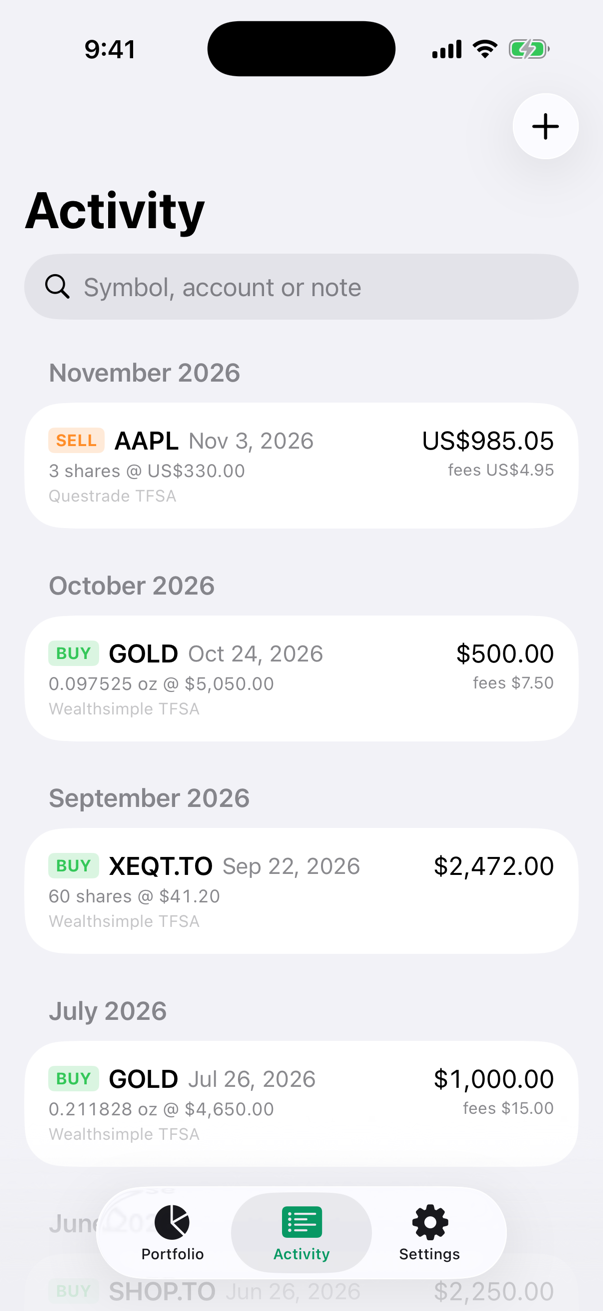
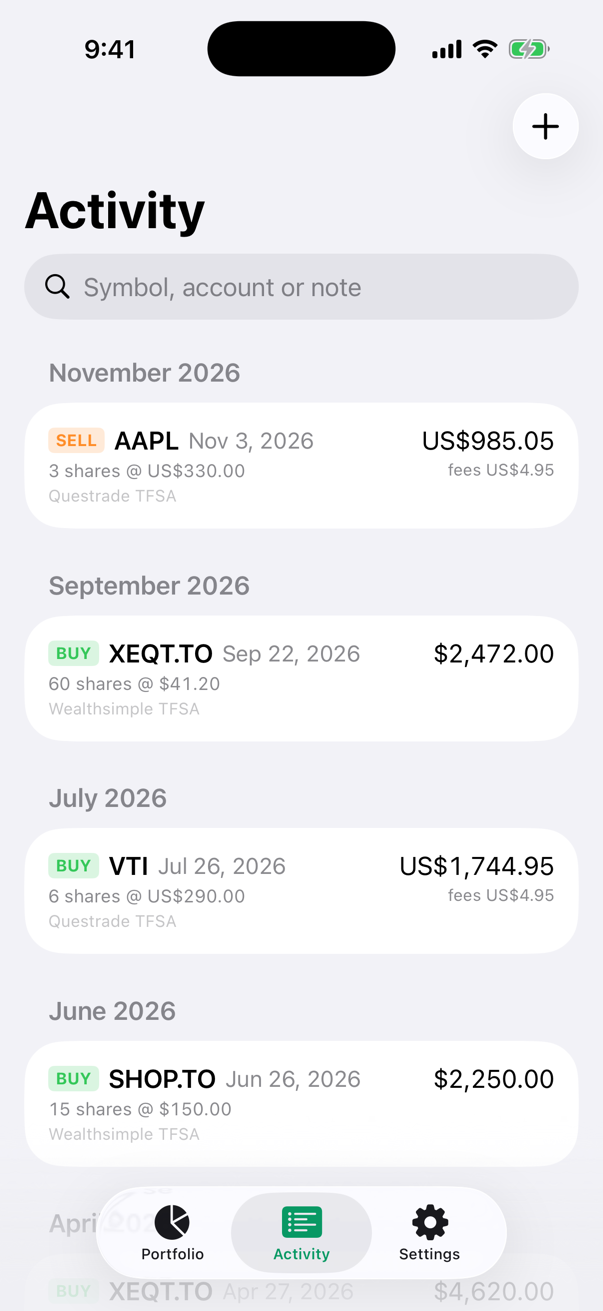
Bug Fixes

diff --git a/Portfolio/Portfolio/DemoData.swift b/Portfolio/Portfolio/DemoData.swift
@@ -46,11 +46,9 @@ enum DemoData {
         add(aapl, Trade(side: .sell, account: qtTFSA, date: daysAgo(20), quantity: 3, price: 330.00,
                         fees: 4.95, cadAmount: 1_410.00))
 
-        let gold = asset(Asset.goldSymbol, "Physical Gold", .gold, .cad)
-        add(gold, Trade(side: .buy, account: wsTFSA, date: daysAgo(120), quantity: 0.211828, price: 4_650.00,
-                        fees: 15.00, totalAmount: 1_000.00, amountAfterFees: 985.00))
-        add(gold, Trade(side: .buy, account: wsTFSA, date: daysAgo(30), quantity: 0.097525, price: 5_050.00,
-                        fees: 7.50, totalAmount: 500.00, amountAfterFees: 492.50))
+        let vti = asset("VTI", "Vanguard Total Stock Market ETF", .etf, .usd)
+        add(vti, Trade(side: .buy, account: qtTFSA, date: daysAgo(120), quantity: 6, price: 290.00,
+                       fees: 4.95, cadAmount: 2_405.00))
 
         try? context.save()
     }

diff --git a/README.md b/README.md
@@ -1,69 +1,56 @@
 # Investment Tracker
 
-A private iPhone app for tracking investments from **Wealthsimple** and **Questrade** in one place: stocks, ETFs, index funds and physical gold. You enter your own trades; the app pulls live prices and shows your book cost, average price, today's return and total return. Once installed, it appears on your home screen as **Portfolio**.
+A private iPhone app that combines all your investments into one place to track. Bring in holdings from **Wealthsimple**, **Questrade** or any other broker. You enter your own trades; the app pulls live prices and shows your book cost, average price, today's return and total return. Once installed, it appears on your home screen as **Portfolio**.
 
 No account, no server, no bank logins. **Your trades are stored only on your iPhone.**
 
 <p align="center">
-  <img src="docs/screenshots/portfolio.png" width="260" alt="Portfolio screen with total value, today's return, total return and book cost, and a list of holdings">
+  <img src="docs/screenshots/portfolio.png" width="260" alt="Portfolio screen with total value, today's return, total return and book cost, and a list of holdings (sample data)">
   &nbsp;&nbsp;
-  <img src="docs/screenshots/portfolio-etfs-gold.png" width="260" alt="Holdings list showing ETFs and physical gold, each with its price and the time of that price">
+  <img src="docs/screenshots/portfolio-etfs.png" width="260" alt="Holdings list showing ETFs, each with its price and the time of that price (sample data)">
   &nbsp;&nbsp;
-  <img src="docs/screenshots/portfolio-dark.png" width="260" alt="Portfolio screen in dark mode">
+  <img src="docs/screenshots/portfolio-dark.png" width="260" alt="Portfolio screen in dark mode (sample data)">
 </p>
 
-> All screenshots use made-up demo data.
+> [!NOTE]
+> **These aren't real investments.** Every screenshot uses made-up sample data from the app's built-in demo mode, not anyone's actual portfolio. Real data never leaves the phone it's entered on.
 
 ## Why
-Wealthsimple and Questrade each show only their own accounts, and Google Finance can't add Wealthsimple's physical gold. This app puts everything in one list, in CAD, without handing your data to anyone.
+Each broker only shows its own accounts, and tools like Google Finance can't hold everything. This app puts every investment in one list, in CAD, without handing your data to anyone.
 
 ## Features
 | | |
 |---|---|
-| **One portfolio** | Every account from both brokers in one list, or filter to a broker or a single account (TFSA, RRSP, FHSA, non-registered) |
+| **One portfolio** | Every account from every broker in one list, or filter to a broker or a single account (TFSA, RRSP, FHSA, non-registered) |
 | **The numbers that matter** | Book cost, average price, market value, today's return and total return, per holding and for the whole portfolio |
-| **Live prices** | Canadian (`.TO`) and US stocks and ETFs, gold, and USD → CAD, each shown with the time of the price |
-| **Physical gold** | Enter amount invested, price per oz, quantity and amount after fees; see totals, fees and your averages |
+| **Live prices** | Canadian (`.TO`) and US stocks and ETFs, plus USD → CAD, each shown with the time of the price |
 | **USD holdings** | Shown in USD, converted to CAD in totals. Optionally record the CAD you actually paid so book cost matches your broker |
 | **Sells** | Average-cost (ACB) method per account, the way Canadian brokers report it, with realized gains |
-| **Your own price** | Override any price, such as Wealthsimple's gold price or a mutual fund's daily price |
+| **Your own price** | Override any price, such as a mutual fund's daily price or a price your broker shows |
 | **Private** | Face ID lock, data stored only on the device, JSON backup and restore |
 
 ## Screens
+*Sample data for illustration only.*
 
-| Holding | Physical gold | Adding gold |
-|---|---|---|
-| <img src="docs/screenshots/holding.png" width="240" alt="Apple holding with quantity, average price, book cost, market value, returns and realized gains"> | <img src="docs/screenshots/gold.png" width="240" alt="Gold page with total invested, amount after fees, fees paid, averages per ounce and the live gold price in CAD and USD"> | <img src="docs/screenshots/add-gold.png" width="240" alt="New gold purchase form with amount invested, price per ounce, quantity, amount after fees, and the fee and cost per ounce worked out"> |
+| Holding | Filter by account |
+|---|---|
+| <img src="docs/screenshots/holding.png" width="240" alt="Apple holding with quantity, average price, book cost, market value, returns and realized gains (sample data)"> | <img src="docs/screenshots/filter.png" width="240" alt="Account filter menu listing all accounts, each broker, and each individual account (sample data)"> |
 
 | Activity | Settings |
 |---|---|
-| <img src="docs/screenshots/activity.png" width="240" alt="Activity list of buys and sells grouped by month"> | <img src="docs/screenshots/settings.png" width="240" alt="Settings with Face ID lock, backup export and restore, and current prices"> |
+| <img src="docs/screenshots/activity.png" width="240" alt="Activity list of buys and sells grouped by month (sample data)"> | <img src="docs/screenshots/settings.png" width="240" alt="Settings with Face ID lock, backup export and restore, and current prices (sample data)"> |
 
 ## How the numbers work
 | Number | How it's worked out |
 |---|---|
 | **Book cost** | What you paid, including fees. When you sell, it goes down by the sold shares' share of the average cost |
-| **Average price** | Book cost ÷ shares (or ounces) you still hold |
+| **Average price** | Book cost ÷ shares you still hold |
 | **Market value** | Shares × latest price |
 | **Today's return** | Shares held since yesterday × (price − yesterday's close), plus anything bought today × (price − your purchase price) |
 | **Total return** | Market value − book cost (on what you still hold) |
 | **Realized** | Money from sales − the average cost of the shares you sold |
 
 Each account keeps its own average cost, like your broker does. USD holdings show in USD on their own page and convert to CAD in the totals.
-
-### Gold
-Gold is valued per **troy ounce in CAD**: the COMEX gold price in USD × the live USD → CAD rate. Wealthsimple adds its own spread, so its price will differ slightly. Turn on **Use my own price** on the gold page to type Wealthsimple's price instead.
-
-For each gold purchase you enter what's on your Wealthsimple order:
-
-| Field | Example |
-|---|---|
-| Amount invested (CAD) | 1,000.00 |
-| Price per oz (CAD) | 5,250.00 |
-| Quantity (oz) | 0.187619 |
-| Amount after fees (CAD) | 985.00 |
-
-The gold page then shows total invested, total after fees, fees paid, average cost per oz (with fees) and average purchase price per oz, across all your purchases.
 
 ### Prices
 Prices come from Yahoo Finance's public quote service. Only **ticker symbols** are sent (for example `XEQT.TO`), never your quantities, costs or accounts. Prices refresh when you open the app or pull down to refresh.
@@ -72,13 +59,12 @@ Prices come from Yahoo Finance's public quote service. Only **ticker symbols** a
 |---|---|
 | US stocks and ETFs | Near real-time |
 | Canadian stocks and ETFs (`.TO`) | ~15 minutes |
-| Gold (COMEX) | ~10 minutes |
 | Mutual-fund index funds | One price per day, after the close |
 
 If a price can't be loaded, the app uses the last saved price, then your own price, then your last trade price.
 
 ## Using the app
-1. **Add a trade:** tap **+**, pick Stock / ETF / Index Fund / Gold, then search a name or ticker (`XEQT`, `Apple`…). Canadian listings end in `.TO`.
+1. **Add a trade:** tap **+**, pick the type of investment, then search a name or ticker (`XEQT`, `Apple`…). Canadian listings end in `.TO`.
 2. **Fill in the details:** Buy or Sell, date, broker, account, shares, price and fees. *Total paid* is optional and is worked out for you.
 3. **See a holding:** tap it for its numbers, a per-account breakdown, the price and its time, and every transaction.
 4. **Edit or delete:** tap a transaction to edit it, or swipe left to delete it (also from the **Activity** tab).
@@ -116,7 +102,7 @@ This **replaces everything in the app** with a sample portfolio, so only use it 
 |---|---|
 | `Portfolio/Portfolio/Models.swift` | Stored data: holdings and trades (SwiftData) |
 | `Portfolio/Portfolio/Calculations.swift` | Book cost, averages, today's and total return, realized gains |
-| `Portfolio/Portfolio/PriceService.swift` | Live prices, gold in CAD, USD → CAD, ticker search |
+| `Portfolio/Portfolio/PriceService.swift` | Live prices, USD → CAD, ticker search |
 | `Portfolio/Portfolio/Views/` | Screens: Portfolio, holding detail, add/edit trade, Activity, Settings |
 | `Portfolio/Portfolio/Backup.swift` | JSON export and restore |
 | `Portfolio/Portfolio/DemoData.swift` | Sample portfolio for `-demo` (Debug builds only) |
